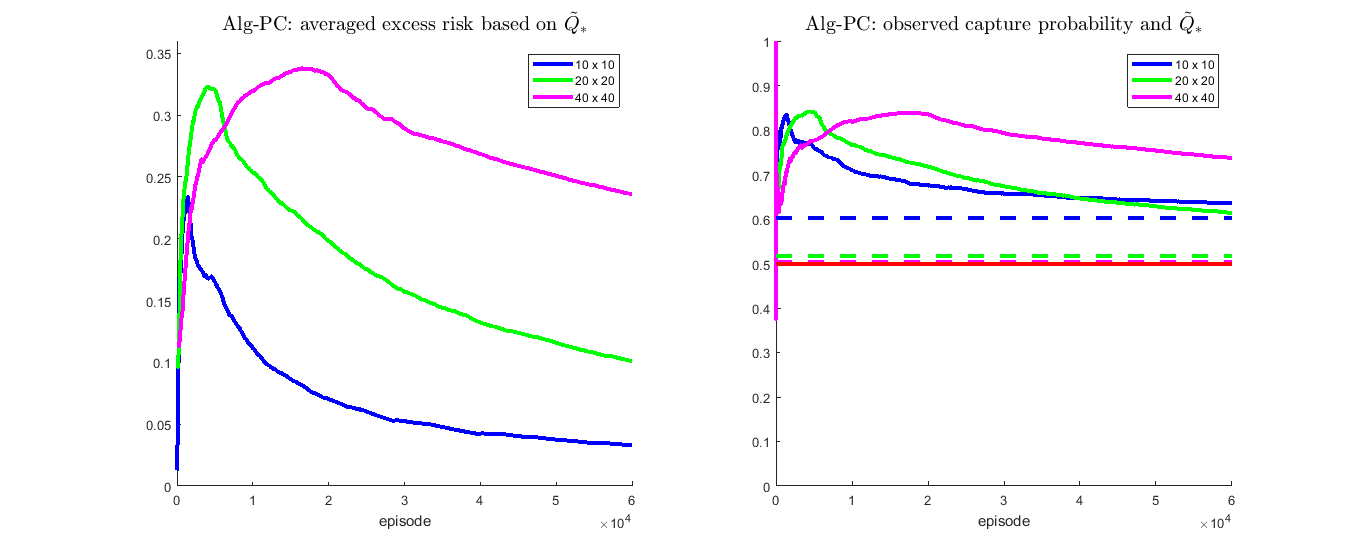
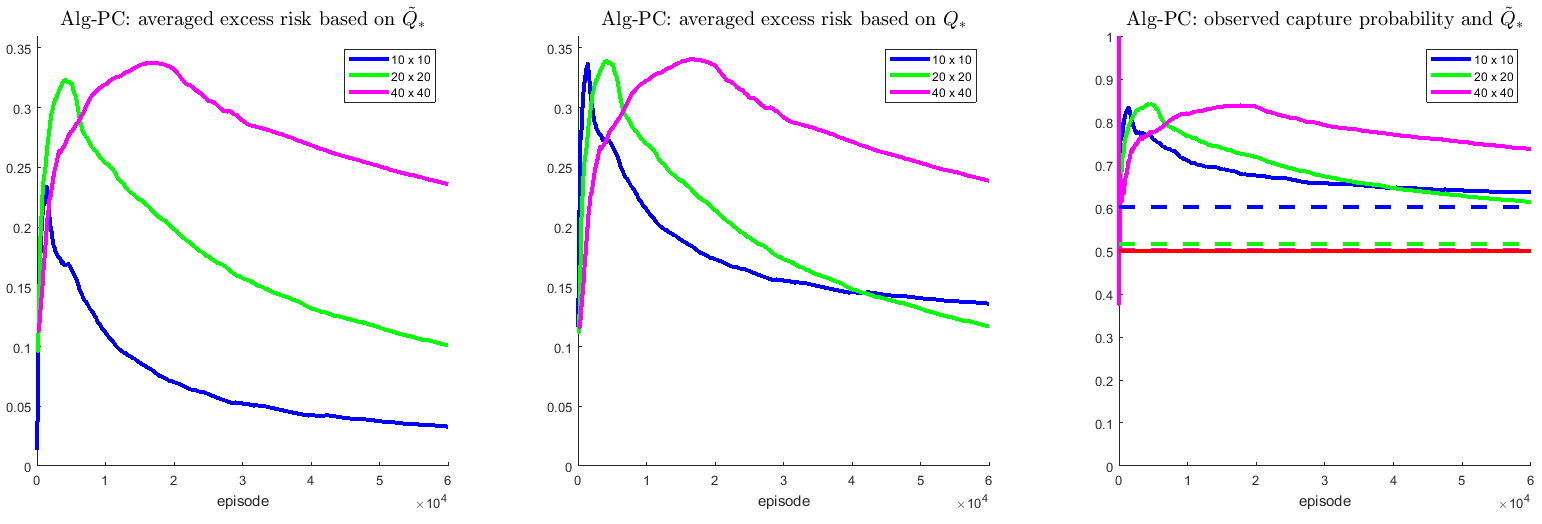
Figure changes & acknowledgement.

diff --git a/docs/limits.html b/docs/limits.html
@@ -47,7 +47,7 @@
     <!-- Begin page content -->
     <main role="main" class="container">
 
-      <section class="jumbotron text-left">
+      <section class="jumbotron text-center">
         <div class="container">
           <h1 class="jumbotron-heading">Learnable Limits of Algorithms</h1>
         </div>
@@ -55,14 +55,14 @@
       <p align="justify">
         Our use of the discrete observational grid $\mathcal{G}$ essentially lumps together all captures within one cell
         (see <a href="">paper</a> for more details).
-        This limits the algorithm's ability to learn the true $K.$ 
-        To account for this more accurately, we can modify our definition of regret metric (formula (6) in the paper) and measure the regret relative 
-        to the best path learnable on the specific $\mathcal{G}$.  Below we provide additional tests illustrating this idea for ALg-PC and data showing 
-        that this subtlety is laregly irrelevant for Alg-GP. 
+        This limits the algorithm's ability to learn the true $K.$
+        To account for this more accurately, we can modify our definition of regret metric (formula (6) in the paper) and measure the regret relative
+        to the best path learnable on the specific $\mathcal{G}$.  Below we provide additional tests illustrating this idea for Alg-PC and data showing
+        that this subtlety is laregly irrelevant for Alg-GP.
       <br>
 
       <h2>Alg-PC (piecewise constant model) </h2>
-      <div class="col-md-12">
+      <div class="col-sm-12">
         <p>
           We define $\tilde{K}_*(\mathbf{x})$ to be the cell-averaged version of $K.$
           This piecewise-constant function also represents the best approximation of $K$
@@ -74,26 +74,26 @@
           we can define the $\mathcal{G}$-adjusted regret by using $\tilde{Q}_*$ instead.
         </p>
       </div>
-      <div class="col-md-12">
+      <div class="col-sm-12">
         <p>
           The first (left) figure below shows the new regret defined as above for different sizes of $\mathcal{G}$, applying Alg-PC to the 2nd example in paper.
-          It illustrates that finer $\mathcal{G}$ requires more episodes to approach the asymptotic learnable limit.  
-          But even though the $20 \times 20$ $\mathcal{G}$ results in a higher grid-adjusted regret than the $10 \times 10$ grid, this is is not the case 
+          It illustrates that finer $\mathcal{G}$ requires more episodes to approach the asymptotic learnable limit.
+          But even though the $20 \times 20$ $\mathcal{G}$ results in a higher grid-adjusted regret than the $10 \times 10$ grid, this is is not the case
           for the regret-against-the-truly-optimal-$Q_*$, as defined in the paper and illustrated in the second (center) figure below.
           The third (right) figure illustrates the experimentally observed capture rate, together with $\tilde{Q}_*$ (dashed lines) for different sizes of $\mathcal{G}$.
-          We observe that $\tilde{Q}_*$ becomes closer to the true optimal $Q_*$ (the red horizontal line) as $\mathcal{G}$ becomes finer. 
+          We observe that $\tilde{Q}_*$ becomes closer to the true optimal $Q_*$ (the red horizontal line) as $\mathcal{G}$ becomes finer.
           But it takes more than $40,000$ episodes until the asymptotic advantage of the $20 \times 20$ grid yields a lower capture rate than on the $10 \times 10$.
         </p>
       </div>
       <div class="col-md-12">
-          <img src="average_regret_best_learnable.png" width="1100" height="450">
+          <img src="average_regret_best_learnable.png" width="1100" height="380">
       </div>
 
       <h2>Alg-GP (Gaussian process model) </h2>
-      <div class="col-md-12">
+      <div class="col-sm-12">
         <p>
           Gaussian process regression performs surprisingly well in recovering the optimal path, even on a coarse grid.
-          For all the examples considered, $\tilde{Q}_*$ is already within 0.25% from the truly optimal $Q_∗$ even with a coarse 10 × 10 observation grid.
+          For all examples considered in the paper, $\tilde{Q}_*$ is already within 0.25% from the truly optimal $Q_∗$ even with a coarse 10 × 10 observation grid.
         </p>
         <p>
           The following is an illustration of this phenomenon using the 2nd & 3rd example in the paper.

diff --git a/docs/refine.html b/docs/refine.html
@@ -47,7 +47,7 @@
     <!-- Begin page content -->
     <main role="main" class="container">
 
-      <section class="jumbotron text-left">
+      <section class="jumbotron text-center">
         <div class="container">
           <h1 class="jumbotron-heading">A Grid Refinement Study of Alg-PC</h1>
         </div>
@@ -60,7 +60,7 @@
         </p>
       </div>
       <div class="col-md-12">
-          <img src="pwc_refine_60000_episodes.png" width="1100" height="320">
+          <img src="pwc_refine_60000_episodes.png" width="1100" height="380">
       </div>
       <br>
       <div class="col-sm-12" align="justify">
@@ -73,7 +73,7 @@
           In the left figure for $N=20$, we observe that the (non-averaged) differences between $Q_i$ and $Q_*$ are pushed down
           to a much lower level, compared with $N = 10$.
           This indicates that with $N=20$ Alg-PC is able to explore paths which are closer to become optimal.
-          $N = 40$ has the same tendency, however, more episodes are needed for the advantage of using this finer grid to become observable. 
+          $N = 40$ has the same tendency, however, more episodes are needed for the advantage of using this finer grid to become observable.
         </p>
       </div>
     </main>

diff --git a/docs/index.html b/docs/index.html
@@ -88,6 +88,12 @@
       <p>
         The C++ implementation of Fast Marching Method is based on another work by D.Qi and A. Vladimirsky, which can be found <a href="https://link.springer.com/epdf/10.1007/s10915-019-00905-6?author_access_token=9raJA-0OXFfPVs8Ho-VuXPe4RwlQNchNByi7wbcMAY7MJhv3q9ADpVm_kSpOWYFkTxpUtOi8UJfRtOeC4-3bqCmvrcc_ZCPAQYxslI9StHAv5cD0Xlr9im891rhddxfdbRGL_xgiTRQpGkD5xy0mWA%3D%3D">here</a>.
       </p>
+      <p>
+        The 3rd author is supported by the NSF DMS (awards 1645643, 1738010, and 2111522).
+      </p>
+      <p>
+        We thank Elliot Cartree for providing a template for this website, originally used to host his work on <a href="https://eikonal-equation.github.io/TimeDependent_SEG/index.html">Time-Dependent Surveillance-Evasion Games</a>.
+      </p>
       </div>
     </main>
 
